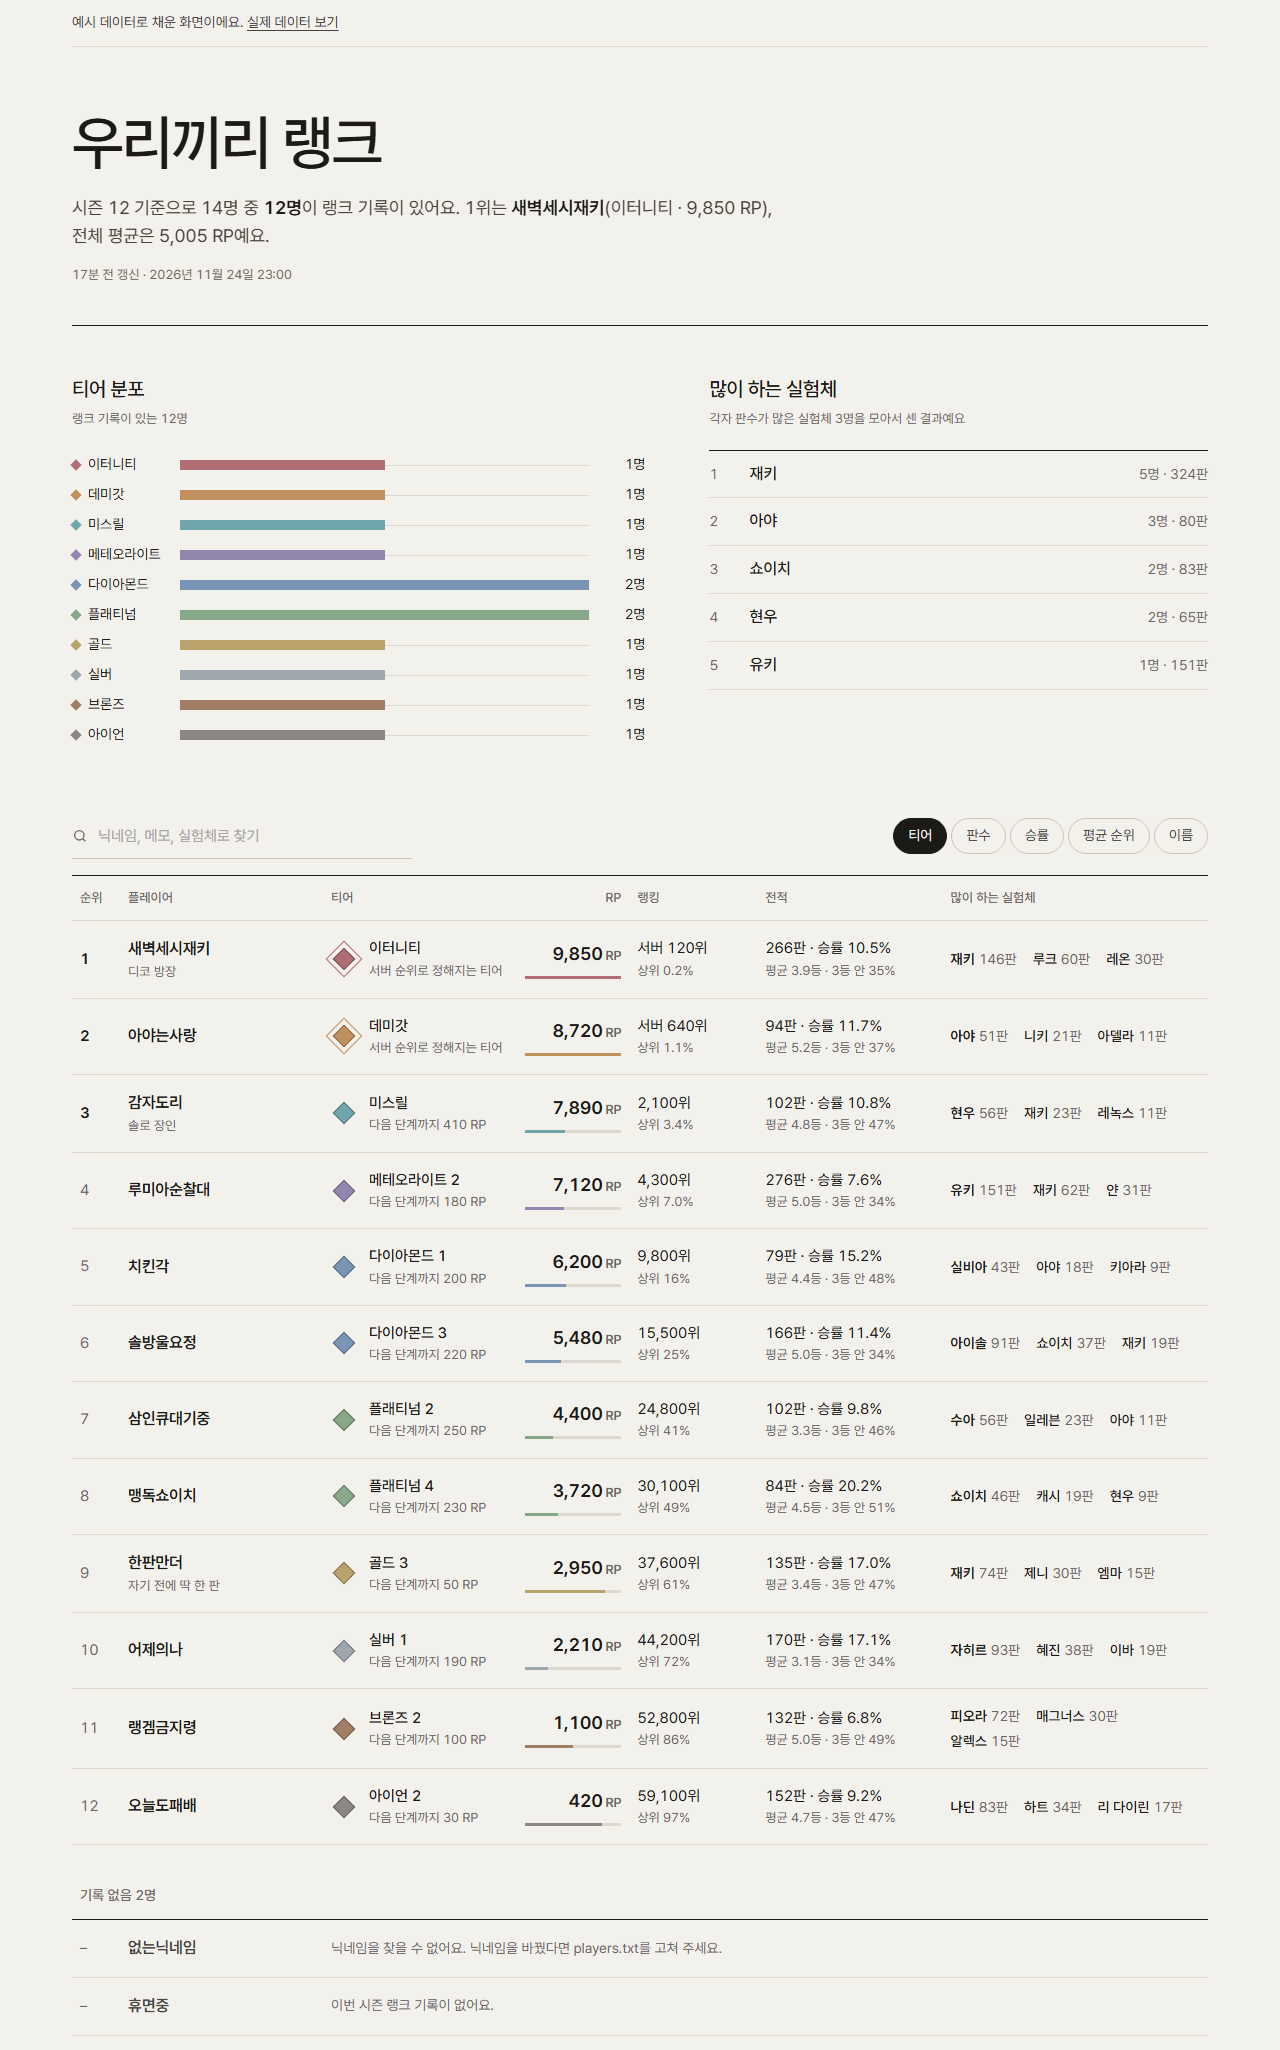
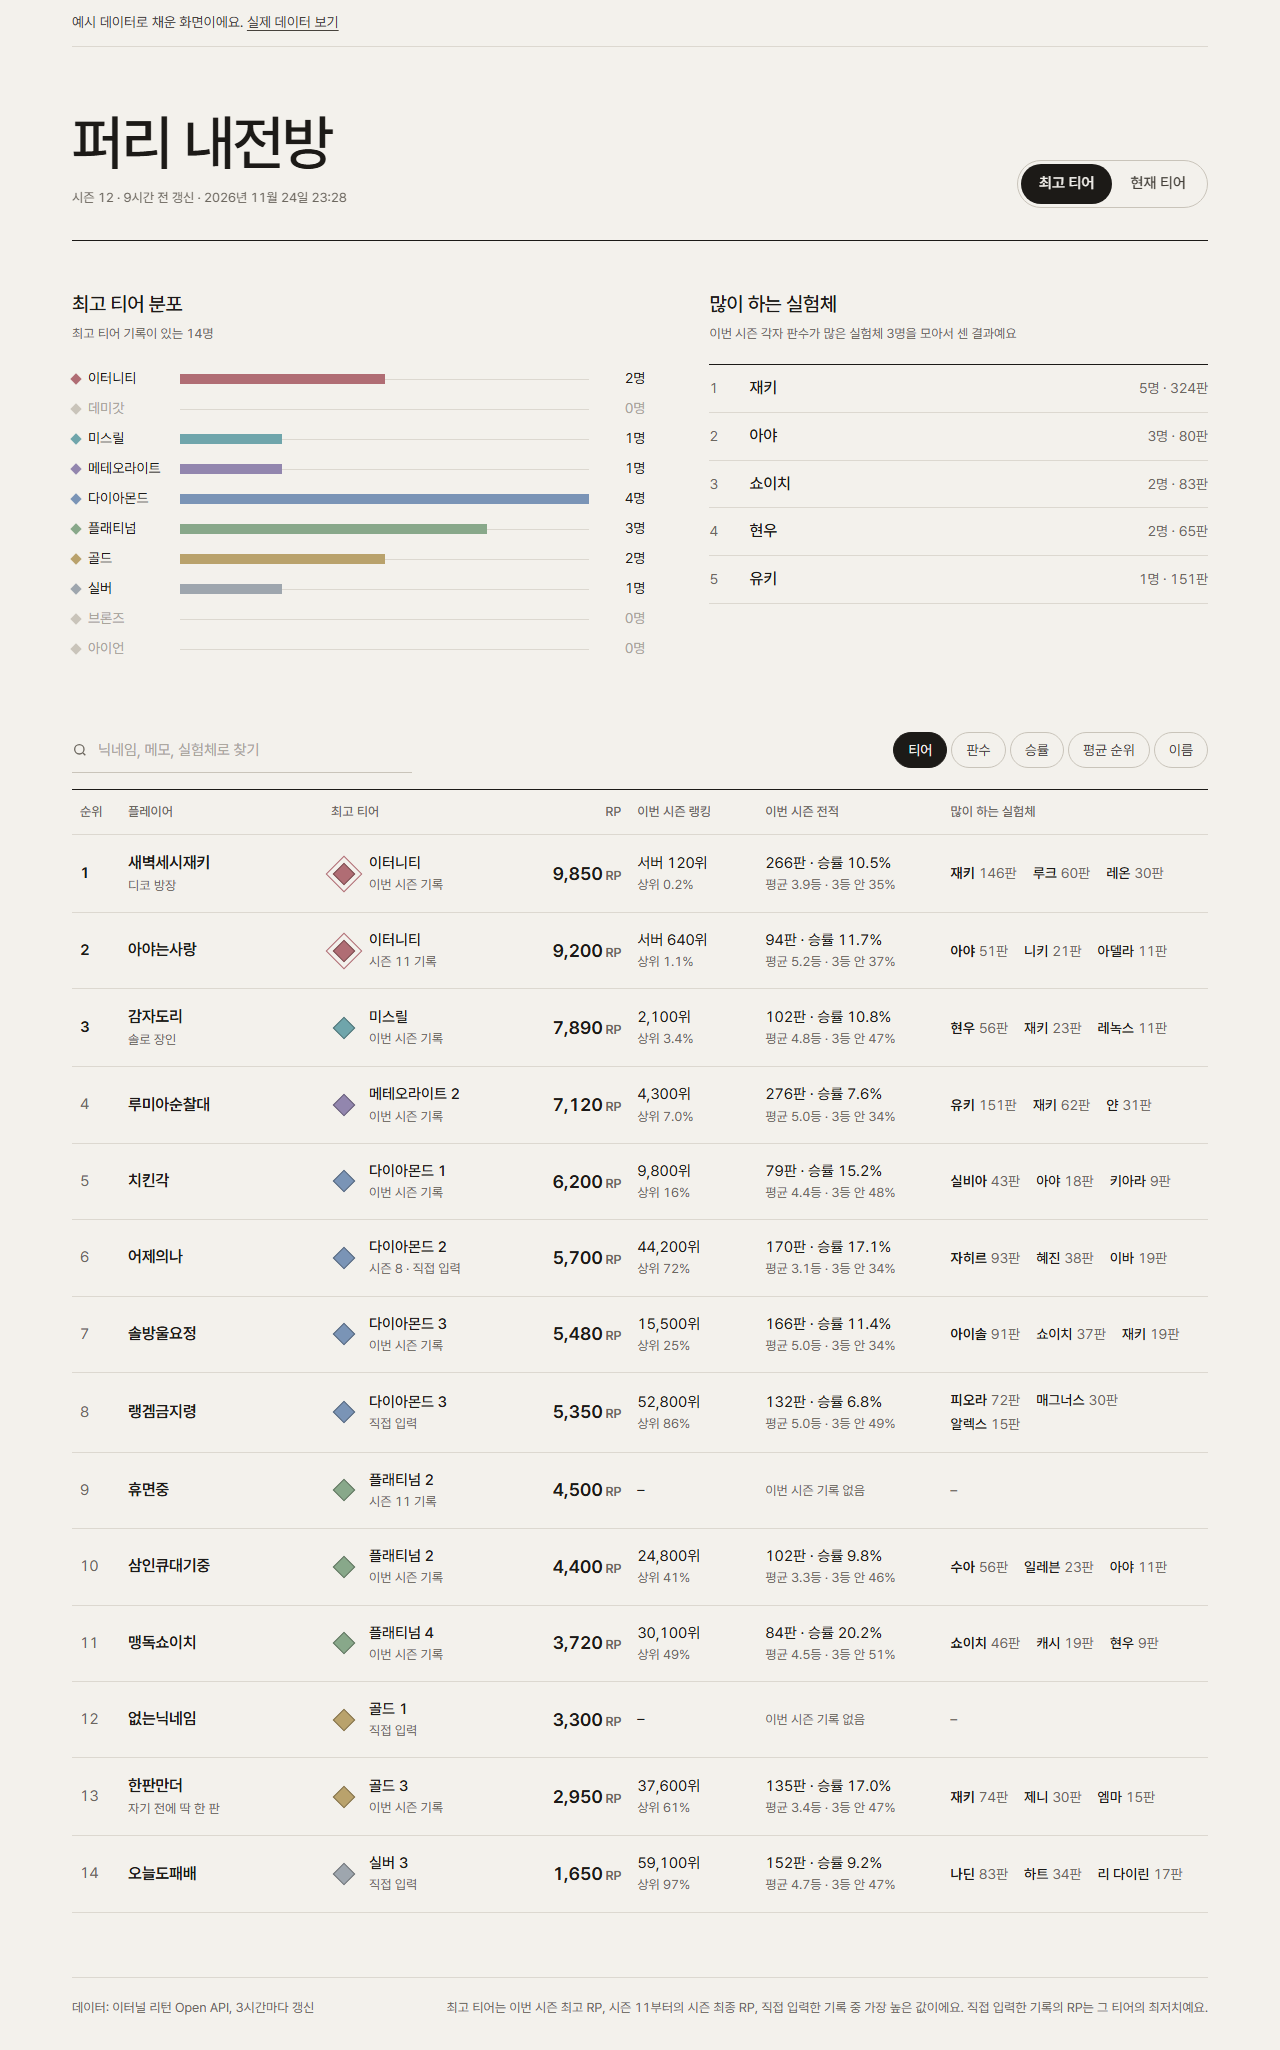
Shorten peak-tier notes, link the view in the URL, document past_peaks
- ?view=current opens the current-tier view; the toggle keeps the URL in step
- Hand-entered peaks read "시즌 8 · 직접 입력"; the tier-floor RP rule
  moves to the footer
- README: how the peak tier is worked out and the past_peaks.txt format

diff --git a/index.html b/index.html
@@ -246,7 +246,7 @@
   <main id="app"><div class="empty">불러오는 중</div></main>
   <footer>
     <span>데이터: 이터널 리턴 Open API, 3시간마다 갱신</span>
-    <span>최고 티어는 이번 시즌 최고 RP, 시즌 11부터의 시즌 최종 RP, 그 전 시즌 기록 중 가장 높은 값이에요.</span>
+    <span>최고 티어는 이번 시즌 최고 RP, 시즌 11부터의 시즌 최종 RP, 직접 입력한 기록 중 가장 높은 값이에요. 직접 입력한 기록의 RP는 그 티어의 최저치예요.</span>
   </footer>
 </div>
 
@@ -286,7 +286,7 @@
     return `${d.getFullYear()}년 ${d.getMonth() + 1}월 ${d.getDate()}일 ${pad(d.getHours())}:${pad(d.getMinutes())}`;
   }
 
-  const state = { mode: "peak", sort: "tier", q: "" };
+  const state = { mode: params.get("view") === "current" ? "current" : "peak", sort: "tier", q: "" };
   let DATA = null;
   let firstPaint = true;
 
@@ -296,7 +296,7 @@
       const k = p.peak;
       if (!k) return null;
       const note = k.source === "manual"
-        ? `${k.season ? k.season + " · " : ""}직접 입력 · RP는 티어 최저치`
+        ? `${k.season ? k.season + " · " : ""}직접 입력`
         : (k.source === "current" ? "이번 시즌 기록" : `${k.season} 기록`);
       return { tier: k.tier, tierName: k.tierName, division: k.division, rp: k.rp, note, progress: null };
     }
@@ -329,11 +329,18 @@
       if (!res.ok) throw new Error(res.status);
       DATA = await res.json();
       const m = $("#mode");
+      const buttons = m.querySelectorAll("button");
+      const mark = () => buttons.forEach((x) => x.setAttribute("aria-pressed", x.dataset.mode === state.mode));
       m.hidden = false;
-      m.querySelectorAll("button").forEach((b) => b.addEventListener("click", () => {
+      mark();
+      buttons.forEach((b) => b.addEventListener("click", () => {
         if (state.mode === b.dataset.mode) return;
         state.mode = b.dataset.mode;
-        m.querySelectorAll("button").forEach((x) => x.setAttribute("aria-pressed", x === b));
+        mark();
+        // 주소에도 남겨서 그 상태 그대로 링크를 공유할 수 있게
+        const url = new URL(location.href);
+        if (state.mode === "current") url.searchParams.set("view", "current"); else url.searchParams.delete("view");
+        history.replaceState(null, "", url);
         render();
       }));
       render();
